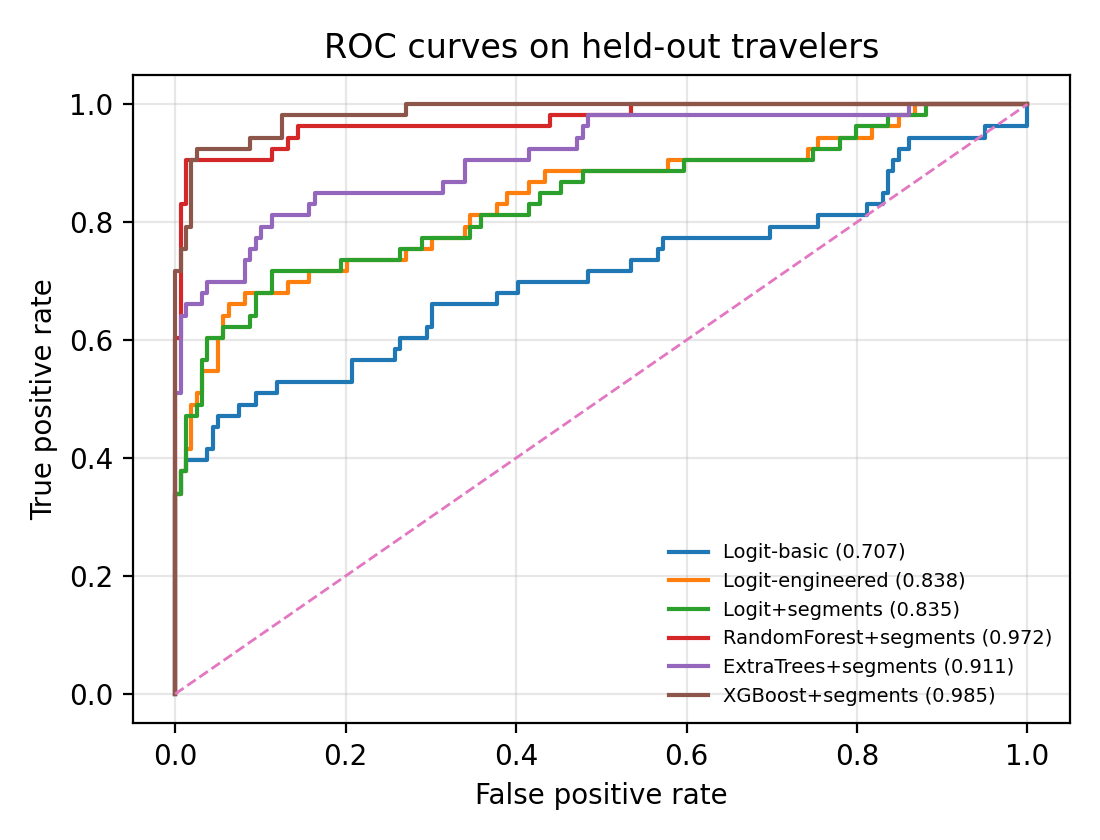
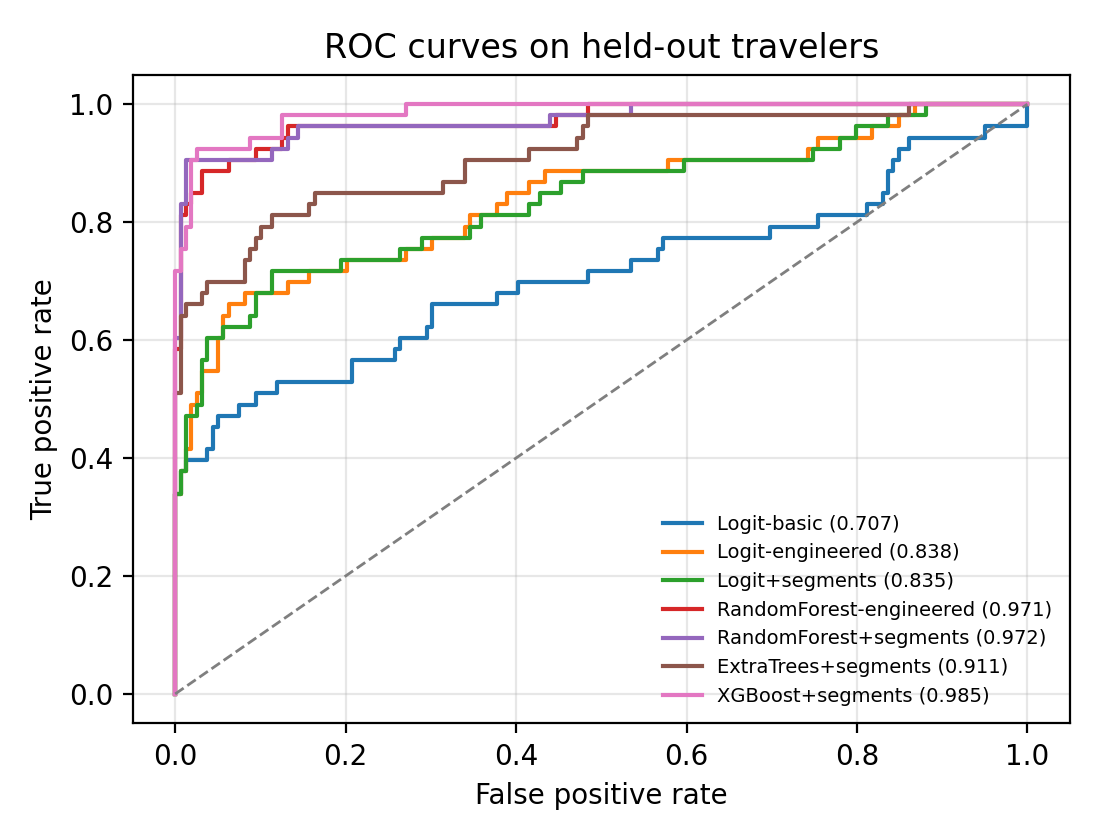
feat: Add final ablation results and revised CS439 report

diff --git a/src/run_project.py b/src/run_project.py
@@ -1,11 +1,13 @@
 """
-This script loads the Statsmodels Travel Mode Choice dataset, performs leakage safe
+This harness loads the Statsmodels Travel Mode Choice dataset, performs leakage safe
 preprocessing, fits unsupervised traveler segments on the training set only, trains
 several supervised models, evaluates row-level and choice-set metrics, and writes
 all figures/tables used in the final report.
 
 Run from the repository root with:
     python src/run_project.py
+
+Author: ud38
 """
 from __future__ import annotations
 
@@ -63,7 +65,7 @@ def load_data() -> pd.DataFrame:
     df["choice"] = df["choice"].astype(int)
     df["mode_name"] = df["mode"].map(MODE_MAP)
 
-    # Basic reproducibility/sanity checks that catch data leakage and corruption.
+    # Sanity checks
     assert df.isna().sum().sum() == 0, "Unexpected missing values."
     assert df.duplicated().sum() == 0, "Unexpected duplicate rows."
     assert (df.groupby("individual")["choice"].sum() == 1).all(), (
@@ -231,7 +233,7 @@ def save_figures(
 ):
     FIG_DIR.mkdir(exist_ok=True)
 
-    # K selection: silhouette.
+    # K selection (silhouette)
     plt.figure(figsize=(5.5, 3.6))
     plt.plot(k_stats["k"], k_stats["silhouette"], marker="o")
     plt.xlabel("Number of clusters (k)")
@@ -243,7 +245,7 @@ def save_figures(
     plt.savefig(FIG_DIR / "kmeans_silhouette.png", dpi=200)
     plt.close()
 
-    # PCA visualization.
+    # PCA visualization
     plt.figure(figsize=(5.4, 4.2))
     for seg, sub in pca_df.groupby("segment"):
         plt.scatter(sub["pc1"], sub["pc2"], s=28, alpha=0.8, label=f"Segment {seg}")
@@ -257,7 +259,7 @@ def save_figures(
     plt.savefig(FIG_DIR / "pca_segments.png", dpi=200)
     plt.close()
 
-    # Choice-set accuracy including rules.
+    # Choice-set accuracy
     plot_df = pd.concat(
         [
             baseline_df[["model", "choice_set_accuracy"]],
@@ -278,7 +280,7 @@ def save_figures(
     plt.savefig(FIG_DIR / "choice_set_accuracy.png", dpi=200)
     plt.close()
 
-    # ROC curves.
+    # ROC curves
     y_test = test_df["choice"].to_numpy()
     plt.figure(figsize=(5.5, 4.2))
     for name, prob in probas.items():
@@ -296,7 +298,7 @@ def save_figures(
     plt.savefig(FIG_DIR / "roc_curves.png", dpi=200)
     plt.close()
 
-    # Confusion matrix for the best operational model.
+    # Confusion matrix
     plt.figure(figsize=(4.5, 4.0))
     plt.imshow(rf_cm)
     plt.xticks(np.arange(len(MODE_ORDER)), MODE_ORDER)
@@ -312,7 +314,7 @@ def save_figures(
     plt.savefig(FIG_DIR / "rf_confusion_matrix.png", dpi=200)
     plt.close()
 
-    # SHAP/TreeSHAP top features from XGBoost.
+    # Top features (SHAP)
     top = shap_importance.sort_values("mean_abs_shap", ascending=True).tail(10)
     plt.figure(figsize=(5.5, 4.0))
     plt.barh(top["feature"], top["mean_abs_shap"])
@@ -394,6 +396,21 @@ def main() -> None:
             ),
         ),
         (
+            "RandomForest-engineered",
+            build_pipeline(
+                RandomForestClassifier(
+                    n_estimators=300,
+                    max_depth=5,
+                    min_samples_leaf=3,
+                    class_weight="balanced",
+                    random_state=SEED,
+                    n_jobs=1,
+                ),
+                numeric_engineered,
+                ["mode_name"],
+            ),
+        ),
+        (
             "RandomForest+segments",
             build_pipeline(
                 RandomForestClassifier(
@@ -472,7 +489,7 @@ def main() -> None:
     metrics_df = pd.DataFrame(metric_rows)
     metrics_df.to_csv(RES_DIR / "model_metrics.csv", index=False)
 
-    # Baselines that choose a single mode within each traveler choice set.
+    # Rule-based baselines
     baseline_rows = []
     for label, scores in [
         ("Rule: lowest GC", -test_df["gc"].to_numpy()),
@@ -487,7 +504,7 @@ def main() -> None:
     baseline_df = pd.DataFrame(baseline_rows)
     baseline_df.to_csv(RES_DIR / "baseline_metrics.csv", index=False)
 
-    # Segment summary for interpretation.
+    # Segment stats
     segment_summary = (
         df.groupby("segment")
         .agg(
@@ -504,7 +521,7 @@ def main() -> None:
     segment_summary.to_csv(RES_DIR / "segment_summary.csv", index=False)
     k_stats.to_csv(RES_DIR / "kmeans_selection.csv", index=False)
 
-    # TreeSHAP for XGBoost interpretability.
+    # Feature importance (SHAP)
     xgb_pipe = fitted["XGBoost+segments"]
     transformed = xgb_pipe.named_steps["preprocess"].transform(x_test)
     names = [clean_feature_name(n) for n in xgb_pipe.named_steps["preprocess"].get_feature_names_out()]
@@ -515,7 +532,7 @@ def main() -> None:
     ).sort_values("mean_abs_shap", ascending=False)
     shap_importance.to_csv(RES_DIR / "xgboost_shap_importance.csv", index=False)
 
-    # Summary metadata.
+    # Run summary
     summary = pd.DataFrame(
         [
             {

diff --git a/report/cs439_final_project.tex b/report/cs439_final_project.tex
@@ -18,8 +18,8 @@
 \title{Segmentation-Aware Machine Learning for Intercity Travel Mode Choice Prediction}
 
 \author{%
-  CS439 Spring 2026\\
-  Student\\
+  Utkarsh Dubey\\
+  Department of Computer Science\\
   \texttt{[email redacted]}\\
 }
 
@@ -27,13 +27,13 @@
 \maketitle
 
 \begin{abstract}
-Reliable travel mode prediction helps transportation planners understand how travelers trade off cost, time, party size, and household income when choosing among air, train, bus, and car.  This project studies the Travel Mode Choice dataset, which contains 840 alternative-level observations from 210 intercity travelers, and frames prediction as a leakage-sensitive grouped choice problem: each traveler contributes four alternatives, exactly one of which is selected.  I propose a lightweight hybrid pipeline that first clusters travelers using K-Means on choice-set attributes and then adds the learned segment labels to supervised classifiers.  The pipeline includes strict group-level train/test separation, binary mapping, one-hot encoding, standardized numerical features, utility-inspired feature engineering, and multiple baselines.  On a held-out set of 53 unseen travelers, the best operational model, a segmentation-aware Random Forest, achieves 94.3\% top-1 choice-set accuracy and 96.2\% top-2 accuracy, substantially improving over logistic regression (69.8\% top-1) and rule-based baselines (26.4--32.1\% top-1).  XGBoost obtains the strongest row-level discrimination with ROC-AUC 0.985 and F1 0.925.  TreeSHAP analysis indicates that relative travel time, terminal waiting time, in-vehicle time, and generalized cost are the dominant predictors, aligning the learned models with transportation intuition.
+Reliable travel mode prediction helps transportation planners understand how travelers trade off cost, time, party size, and household income when choosing among air, train, bus, and car.  This project studies the Travel Mode Choice dataset, which contains 840 alternative-level observations from 210 intercity travelers, and frames prediction as a leakage-sensitive grouped choice problem: each traveler contributes four alternatives, exactly one of which is selected.  I propose a lightweight hybrid pipeline that first clusters travelers using K-Means on choice-set attributes and then adds the learned segment labels to supervised classifiers.  The pipeline includes strict group-level train/test separation, binary mapping, one-hot encoding, standardized numerical features, utility-inspired feature engineering, and multiple baselines.  On a held-out set of 53 unseen travelers, the best operational model, a segmentation-aware Random Forest, achieves 94.3\% top-1 choice-set accuracy and 96.2\% top-2 accuracy, substantially improving over logistic regression (69.8\% top-1) and rule-based baselines (26.4--32.1\% top-1).  A targeted ablation shows that the segment label mainly improves row-level calibration and F1 rather than changing the final top-1 ranking.  XGBoost obtains the strongest row-level discrimination with ROC-AUC 0.985 and F1 0.925.  TreeSHAP analysis indicates that relative travel time, terminal waiting time, in-vehicle time, and generalized cost are the dominant predictors, aligning the learned models with transportation intuition.
 \end{abstract}
 
 \paragraph{Code repository.} \url{https://github.com/utkarshdubey/cs439-mode-choice-final}.  The accompanying reproducibility package contains the full preprocessing, segmentation, model training, evaluation, and figure-generation pipeline.
 
 \section{Introduction}
-Mode choice modeling asks which transportation alternative a traveler will select from a feasible set.  Although classical transportation planning often relies on discrete-choice models, modern data science workflows can complement these models by learning nonlinear interactions, producing operational predictions, and exposing feature-level explanations.  In this project, the application is intercity travel between Australian cities, where each traveler chooses one of four modes: air, train, bus, or car.  The practical objective is not only to estimate whether a single row is chosen, but also to rank the four alternatives for each unseen traveler and select the most likely mode.
+Mode choice modeling asks which transportation alternative a traveler will select from a feasible set.  Although classical transportation planning often relies on discrete-choice models, modern data science workflows can complement these models by learning nonlinear interactions, producing operational predictions, and exposing feature-level explanations.  In this project, the application is intercity travel between Australian cities, where each traveler chooses one of four modes: air, train, bus, or car.  A practical stakeholder is a transit agency or policy analyst deciding whether service hours, fare incentives, or terminal improvements are likely to shift travelers away from private car or air travel.  The practical objective is therefore not only to estimate whether a single row is chosen, but also to rank the four alternatives for each unseen traveler and select the most likely mode.
 
 The problem is deceptively easy to evaluate incorrectly.  The dataset is stored in long format, so each traveler appears in four rows.  A standard random row split would place some alternatives from the same traveler in training and others in testing, leaking traveler-specific income, party size, and choice-set structure into evaluation.  Therefore, this project treats the traveler as the atomic unit for splitting, clustering, cross-validation, and final testing.
 
@@ -50,11 +50,15 @@ The main research question is: \emph{Can traveler segmentation and utility-inspi
 \subsection{Dataset and problem formulation}
 The dataset is loaded from \texttt{statsmodels.datasets.modechoice}, whose documentation describes it as a 1987 intercity mode-choice sample with 210 travelers and four alternatives per traveler \citep{statsmodels_modechoice}.  The raw fields are traveler ID, mode ID, binary choice label, terminal waiting time (\texttt{ttme}), in-vehicle cost (\texttt{invc}), in-vehicle time (\texttt{invt}), generalized cost (\texttt{gc}), household income (\texttt{hinc}), and party size (\texttt{psize}).  I map mode IDs to \{air, train, bus, car\} and cast the target \texttt{choice} into a binary variable $y_{ij}\in\{0,1\}$ for traveler $i$ and mode $j$.
 
-The row-level model estimates $\hat{p}_{ij}=P(y_{ij}=1\mid x_{ij})$.  For operational choice prediction, probabilities are converted into a traveler-level decision by selecting
+The supervised model is an independent binary ranker rather than a fully normalized conditional-logit model.  For each traveler-mode row, it learns a score $s_{ij}=f_\theta(x_{ij}, z_i)$ from alternative features $x_{ij}$ and optional segment label $z_i$, then maps the score to a choice probability,
+\begin{equation}
+\hat{p}_{ij}=P(y_{ij}=1\mid x_{ij},z_i)=\sigma(s_{ij})=\frac{1}{1+\exp(-s_{ij})}.
+\end{equation}
+For operational choice prediction, these row-level probabilities are converted into a traveler-level decision by selecting
 \begin{equation}
 \hat{j}_i = \arg\max_{j\in\{\text{air, train, bus, car}\}} \hat{p}_{ij}.
 \end{equation}
-The primary metric is top-1 choice-set accuracy, $\frac{1}{N}\sum_i \mathbb{1}[\hat{j}_i=j_i]$, because a transportation planner ultimately needs the chosen mode within each traveler choice set.  I also report top-2 accuracy, row-level F1, ROC-AUC, PR-AUC, and log loss.
+This differs from a true conditional logit, which would normalize $\exp(V_{ij})$ across all four alternatives within a traveler; I return to this modeling limitation in Section~\ref{sec:discussion}.  The primary metric is top-1 choice-set accuracy, $\frac{1}{N}\sum_i \mathbb{1}[\hat{j}_i=j_i]$, because a transportation planner ultimately needs the chosen mode within each traveler choice set.  I also report top-2 accuracy, row-level F1, ROC-AUC, PR-AUC, and log loss.
 
 \subsection{Preprocessing and leakage prevention}
 The preprocessing pipeline is deliberately conservative.  I first verify that the dataset has no missing values, no duplicate rows, exactly four alternatives per traveler, and exactly one chosen alternative per traveler.  The final split uses \texttt{GroupShuffleSplit} with traveler ID as the group, producing 157 training travelers (628 rows) and 53 held-out test travelers (212 rows).  Cross-validation uses five-fold \texttt{GroupKFold}, again grouped by traveler ID.
@@ -65,7 +69,7 @@ Feature transformations are fit only on training data inside scikit-learn pipeli
 To add interpretable cohort information, I build a traveler-level matrix using income, party size, and summary statistics for each traveler's four alternatives.  For each of \texttt{gc}, \texttt{ttme}, \texttt{invc}, \texttt{invt}, and total time, the matrix includes minimum, mean, maximum, range, and mode-specific values.  K-Means is fit on training travelers only, and held-out travelers are assigned to the nearest training-fitted centroid.  I test $k\in\{2,3,4,5,6\}$ and select $k=2$ because it yields the highest silhouette score and lowest Davies-Bouldin score in the training data.  The two segments correspond to longer, higher generalized-cost choice sets versus shorter, lower-cost choice sets.
 
 \subsection{Supervised models and baselines}
-The supervised baselines include logistic regression with raw features, logistic regression with engineered features, and logistic regression with engineered features plus segment labels.  The tree-based models are Random Forest, Extra Trees, and XGBoost.  Class weights or positive-class scaling are used because each four-row choice set has one positive and three negative rows.  Hyperparameters are kept intentionally small and stable to avoid overfitting the 210-traveler sample: Random Forest and Extra Trees use 300 trees, maximum depth 5, and minimum leaf size 3; XGBoost uses 100 trees of depth 2 with learning rate 0.08.  Three non-learning baselines are also included: always choose the training-popular mode, choose the alternative with lowest generalized cost, and choose the fastest total-time alternative.
+The supervised baselines include logistic regression with raw features, logistic regression with engineered features, and logistic regression with engineered features plus segment labels.  The tree-based models are Random Forest, Extra Trees, and XGBoost.  I include a Random Forest without segment labels as a targeted ablation so that the effect of segmentation can be isolated from the effect of engineered features.  Class weights are used for logistic regression and bagged trees, while XGBoost uses positive-class scaling, because each four-row choice set has one positive and three negative rows; resampling methods such as SMOTE are avoided because synthetic rows could break the within-traveler choice-set structure.  Hyperparameters are kept intentionally small and stable to avoid overfitting the 210-traveler sample: Random Forest and Extra Trees use 300 trees, maximum depth 5, and minimum leaf size 3; XGBoost uses 100 trees of depth 2 with learning rate 0.08.  Three non-learning baselines are also included: always choose the training-popular mode, choose the alternative with lowest generalized cost, and choose the fastest total-time alternative.
 
 \section{Experiments \& Results}
 \subsection{Segmentation diagnostics}
@@ -88,13 +92,13 @@ Segment & Travelers & Mean income & Mean party size & Mean generalized cost & Me
 
 \begin{figure}[H]
 \centering
-\includegraphics[width=0.62\linewidth]{./pca_segments.pdf}
+\includegraphics[width=0.62\linewidth]{../figures/pca_segments.pdf}
 \caption{PCA projection of traveler-level K-Means segments.  Segment 0 represents longer and more expensive choice sets, while Segment 1 represents shorter and lower-cost choice sets.}
 \label{fig:segments}
 \end{figure}
 
 \subsection{Predictive performance}
-Table~\ref{tab:results} reports the main supervised results on the held-out travelers.  The rule-based baselines are weak: lowest generalized cost obtains 32.1\% top-1 choice-set accuracy, and fastest total time obtains 26.4\%.  Logistic regression with raw features reaches 58.5\% top-1 accuracy.  Adding utility-inspired engineered features raises logistic top-1 accuracy to 69.8\%, showing that the feature design contributes more than the model family alone.  The best operational model is Random Forest with segment labels, which reaches \textbf{94.3\%} top-1 accuracy and 96.2\% top-2 accuracy.  XGBoost is the strongest row-level ranker, with \textbf{0.985 ROC-AUC}, \textbf{0.966 PR-AUC}, and \textbf{0.925 F1}, but its top-1 choice-set accuracy is slightly below Random Forest.
+Table~\ref{tab:results} reports the main supervised results on the held-out travelers.  The rule-based baselines are weak: lowest generalized cost obtains 32.1\% top-1 choice-set accuracy, and fastest total time obtains 26.4\%.  Logistic regression with raw features reaches 58.5\% top-1 accuracy.  Adding utility-inspired engineered features raises logistic top-1 accuracy to 69.8\%, showing that the feature design contributes more than the model family alone.  The Random Forest ablation shows that segment labels do not change top-1 choice accuracy in this split, but they improve row-level F1 from 0.891 to 0.923 and PR-AUC from 0.948 to 0.952.  I therefore treat RandomForest+segments as the best operational model because it ties the no-segment forest on top-1 accuracy while giving stronger row-level classification.  XGBoost is the strongest row-level ranker, with \textbf{0.985 ROC-AUC}, \textbf{0.966 PR-AUC}, and \textbf{0.925 F1}, but its top-1 choice-set accuracy is slightly below Random Forest.
 
 \begin{table}[H]
 \centering
@@ -109,6 +113,7 @@ Model & CV ROC-AUC & F1 & ROC-AUC & PR-AUC & Top-1 choice acc. & Top-2 acc. \\
 Logit-basic & 0.797 $\pm$ 0.049 & 0.500 & 0.707 & 0.641 & 0.585 & 0.736 \\
 Logit-engineered & 0.885 $\pm$ 0.034 & 0.644 & 0.838 & 0.762 & 0.698 & 0.849 \\
 Logit+segments & 0.886 $\pm$ 0.036 & 0.639 & 0.835 & 0.762 & 0.698 & 0.849 \\
+RandomForest-engineered & 0.966 $\pm$ 0.022 & 0.891 & 0.971 & 0.948 & \textbf{0.943} & \textbf{0.962} \\
 RandomForest+segments & 0.966 $\pm$ 0.020 & 0.923 & 0.972 & 0.952 & \textbf{0.943} & \textbf{0.962} \\
 ExtraTrees+segments & 0.926 $\pm$ 0.020 & 0.723 & 0.911 & 0.858 & 0.755 & \textbf{0.962} \\
 XGBoost+segments & \textbf{0.972 $\pm$ 0.023} & \textbf{0.925} & \textbf{0.985} & \textbf{0.966} & 0.925 & \textbf{0.962} \\
@@ -118,24 +123,24 @@ XGBoost+segments & \textbf{0.972 $\pm$ 0.023} & \textbf{0.925} & \textbf{0.985} 
 
 \begin{figure}[H]
 \centering
-\includegraphics[width=0.94\linewidth]{./choice_set_accuracy.pdf}
+\includegraphics[width=0.94\linewidth]{../figures/choice_set_accuracy.pdf}
 \caption{Top-1 choice-set accuracy for rules and supervised models.  The ensemble models substantially outperform utility-only rules and logistic regression.}
 \label{fig:accuracy}
 \end{figure}
 
 \subsection{Error analysis and interpretation}
-The Random Forest confusion matrix in Figure~\ref{fig:cm} shows that the best operational model correctly predicts most modes and makes only three traveler-level mistakes on the 53-person test set.  The remaining errors are plausible confusions between alternatives with similar time-cost profiles.  ROC curves in Figure~\ref{fig:roc} confirm that the tree ensembles dominate logistic regression as row-level rankers, while XGBoost has the best discrimination across thresholds.
+The Random Forest confusion matrix in Figure~\ref{fig:cm} shows that the best operational model correctly predicts most modes and makes only three traveler-level mistakes on the 53-person test set.  Because each traveler corresponds to about 1.9 percentage points of top-1 accuracy, I interpret small gaps between high-performing ensembles cautiously rather than treating one-person differences as statistically decisive.  The remaining errors are plausible confusions between alternatives with similar time-cost profiles.  ROC curves in Figure~\ref{fig:roc} confirm that the tree ensembles dominate logistic regression as row-level rankers, while XGBoost has the best discrimination across thresholds.
 
 \begin{figure}[H]
 \centering
-\includegraphics[width=0.48\linewidth]{./rf_confusion_matrix.pdf}
+\includegraphics[width=0.48\linewidth]{../figures/rf_confusion_matrix.pdf}
 \caption{Choice-set confusion matrix for RandomForest+segments. Rows are true chosen modes and columns are predicted modes.}
 \label{fig:cm}
 \end{figure}
 
 \begin{figure}[H]
 \centering
-\includegraphics[width=0.68\linewidth]{./roc_curves.pdf}
+\includegraphics[width=0.68\linewidth]{../figures/roc_curves.pdf}
 \caption{ROC curves on held-out travelers.  XGBoost gives the highest row-level ROC-AUC, while Random Forest gives the best top-1 choice-set accuracy.}
 \label{fig:roc}
 \end{figure}
@@ -144,18 +149,19 @@ TreeSHAP results in Figure~\ref{fig:shap} provide a sanity check on model behavi
 
 \begin{figure}[H]
 \centering
-\includegraphics[width=0.62\linewidth]{./shap_top_features.pdf}
+\includegraphics[width=0.62\linewidth]{../figures/shap_top_features.pdf}
 \caption{Top TreeSHAP features for XGBoost.  Relative time and cost variables dominate, which is behaviorally plausible for intercity mode choice.}
 \label{fig:shap}
 \end{figure}
 
 \section{Discussion and Limitations}
-The results show that careful evaluation design matters as much as model choice.  If alternatives from the same traveler were randomly split across train and test sets, evaluation would be inflated by leakage.  Grouped splitting gives a harder and more realistic test: the model must generalize to entirely unseen travelers.  Under that protocol, feature engineering produces a clear improvement over raw-feature logistic regression, and tree ensembles capture interactions that logistic regression misses.  The segmentation step is most useful for interpretation and cohort auditing; it does not dramatically change logistic regression accuracy, but it gives a concise way to distinguish long/high-cost and short/low-cost traveler contexts.
+\label{sec:discussion}
+The results show that careful evaluation design matters as much as model choice.  If alternatives from the same traveler were randomly split across train and test sets, evaluation would be inflated by leakage.  Grouped splitting gives a harder and more realistic test: the model must generalize to entirely unseen travelers.  Under that protocol, feature engineering produces a clear improvement over raw-feature logistic regression, and tree ensembles capture interactions that logistic regression misses.  The segmentation ablation gives a nuanced result: segment labels do not materially change the final top-1 choice ranking for logistic regression or Random Forest, but they improve Random Forest row-level F1 and provide a concise way to audit long/high-cost versus short/low-cost traveler contexts.
 
 The main limitation is dataset size.  The sample contains only 210 travelers and is choice-based, with oversampling of less popular modes, so the model should not be interpreted as estimating real population mode shares without additional weighting or external validation.  The dataset also lacks variables that are important in modern travel behavior, such as departure time, service reliability, comfort, vehicle ownership, emissions preferences, and geographic context.  Finally, the independent binary formulation ranks alternatives well, but a true conditional logit or neural choice model could explicitly normalize probabilities within each choice set.
 
 \section{Conclusion}
-This project developed a reproducible, leakage-safe data science pipeline for intercity travel mode choice prediction.  The strongest operational model, a segmentation-aware Random Forest, achieved 94.3\% top-1 choice-set accuracy on unseen travelers, while XGBoost achieved the best row-level ROC-AUC of 0.985.  The analysis demonstrates that a low-effort but rigorous hybrid pipeline--grouped splitting, utility-inspired features, K-Means traveler segmentation, tree ensembles, and SHAP interpretation--can satisfy both predictive and interpretability goals.  Future work should validate the pipeline on larger, more recent travel surveys, incorporate sample weights for population inference, and compare the binary ranking setup with dedicated multinomial and conditional logit architectures.
+This project developed a reproducible, leakage-safe data science pipeline for intercity travel mode choice prediction.  The strongest operational model, a segmentation-aware Random Forest, achieved 94.3\% top-1 choice-set accuracy on unseen travelers, while XGBoost achieved the best row-level ROC-AUC of 0.985.  The analysis demonstrates that a low-effort but rigorous hybrid pipeline--grouped splitting, utility-inspired features, K-Means traveler segmentation, tree ensembles, targeted ablation, and SHAP interpretation--can satisfy both predictive and interpretability goals.  Future work should validate the pipeline on larger, more recent travel surveys, incorporate sample weights for population inference, and compare the binary ranking setup with dedicated multinomial and conditional logit architectures.
 
 \begin{thebibliography}{10}
 